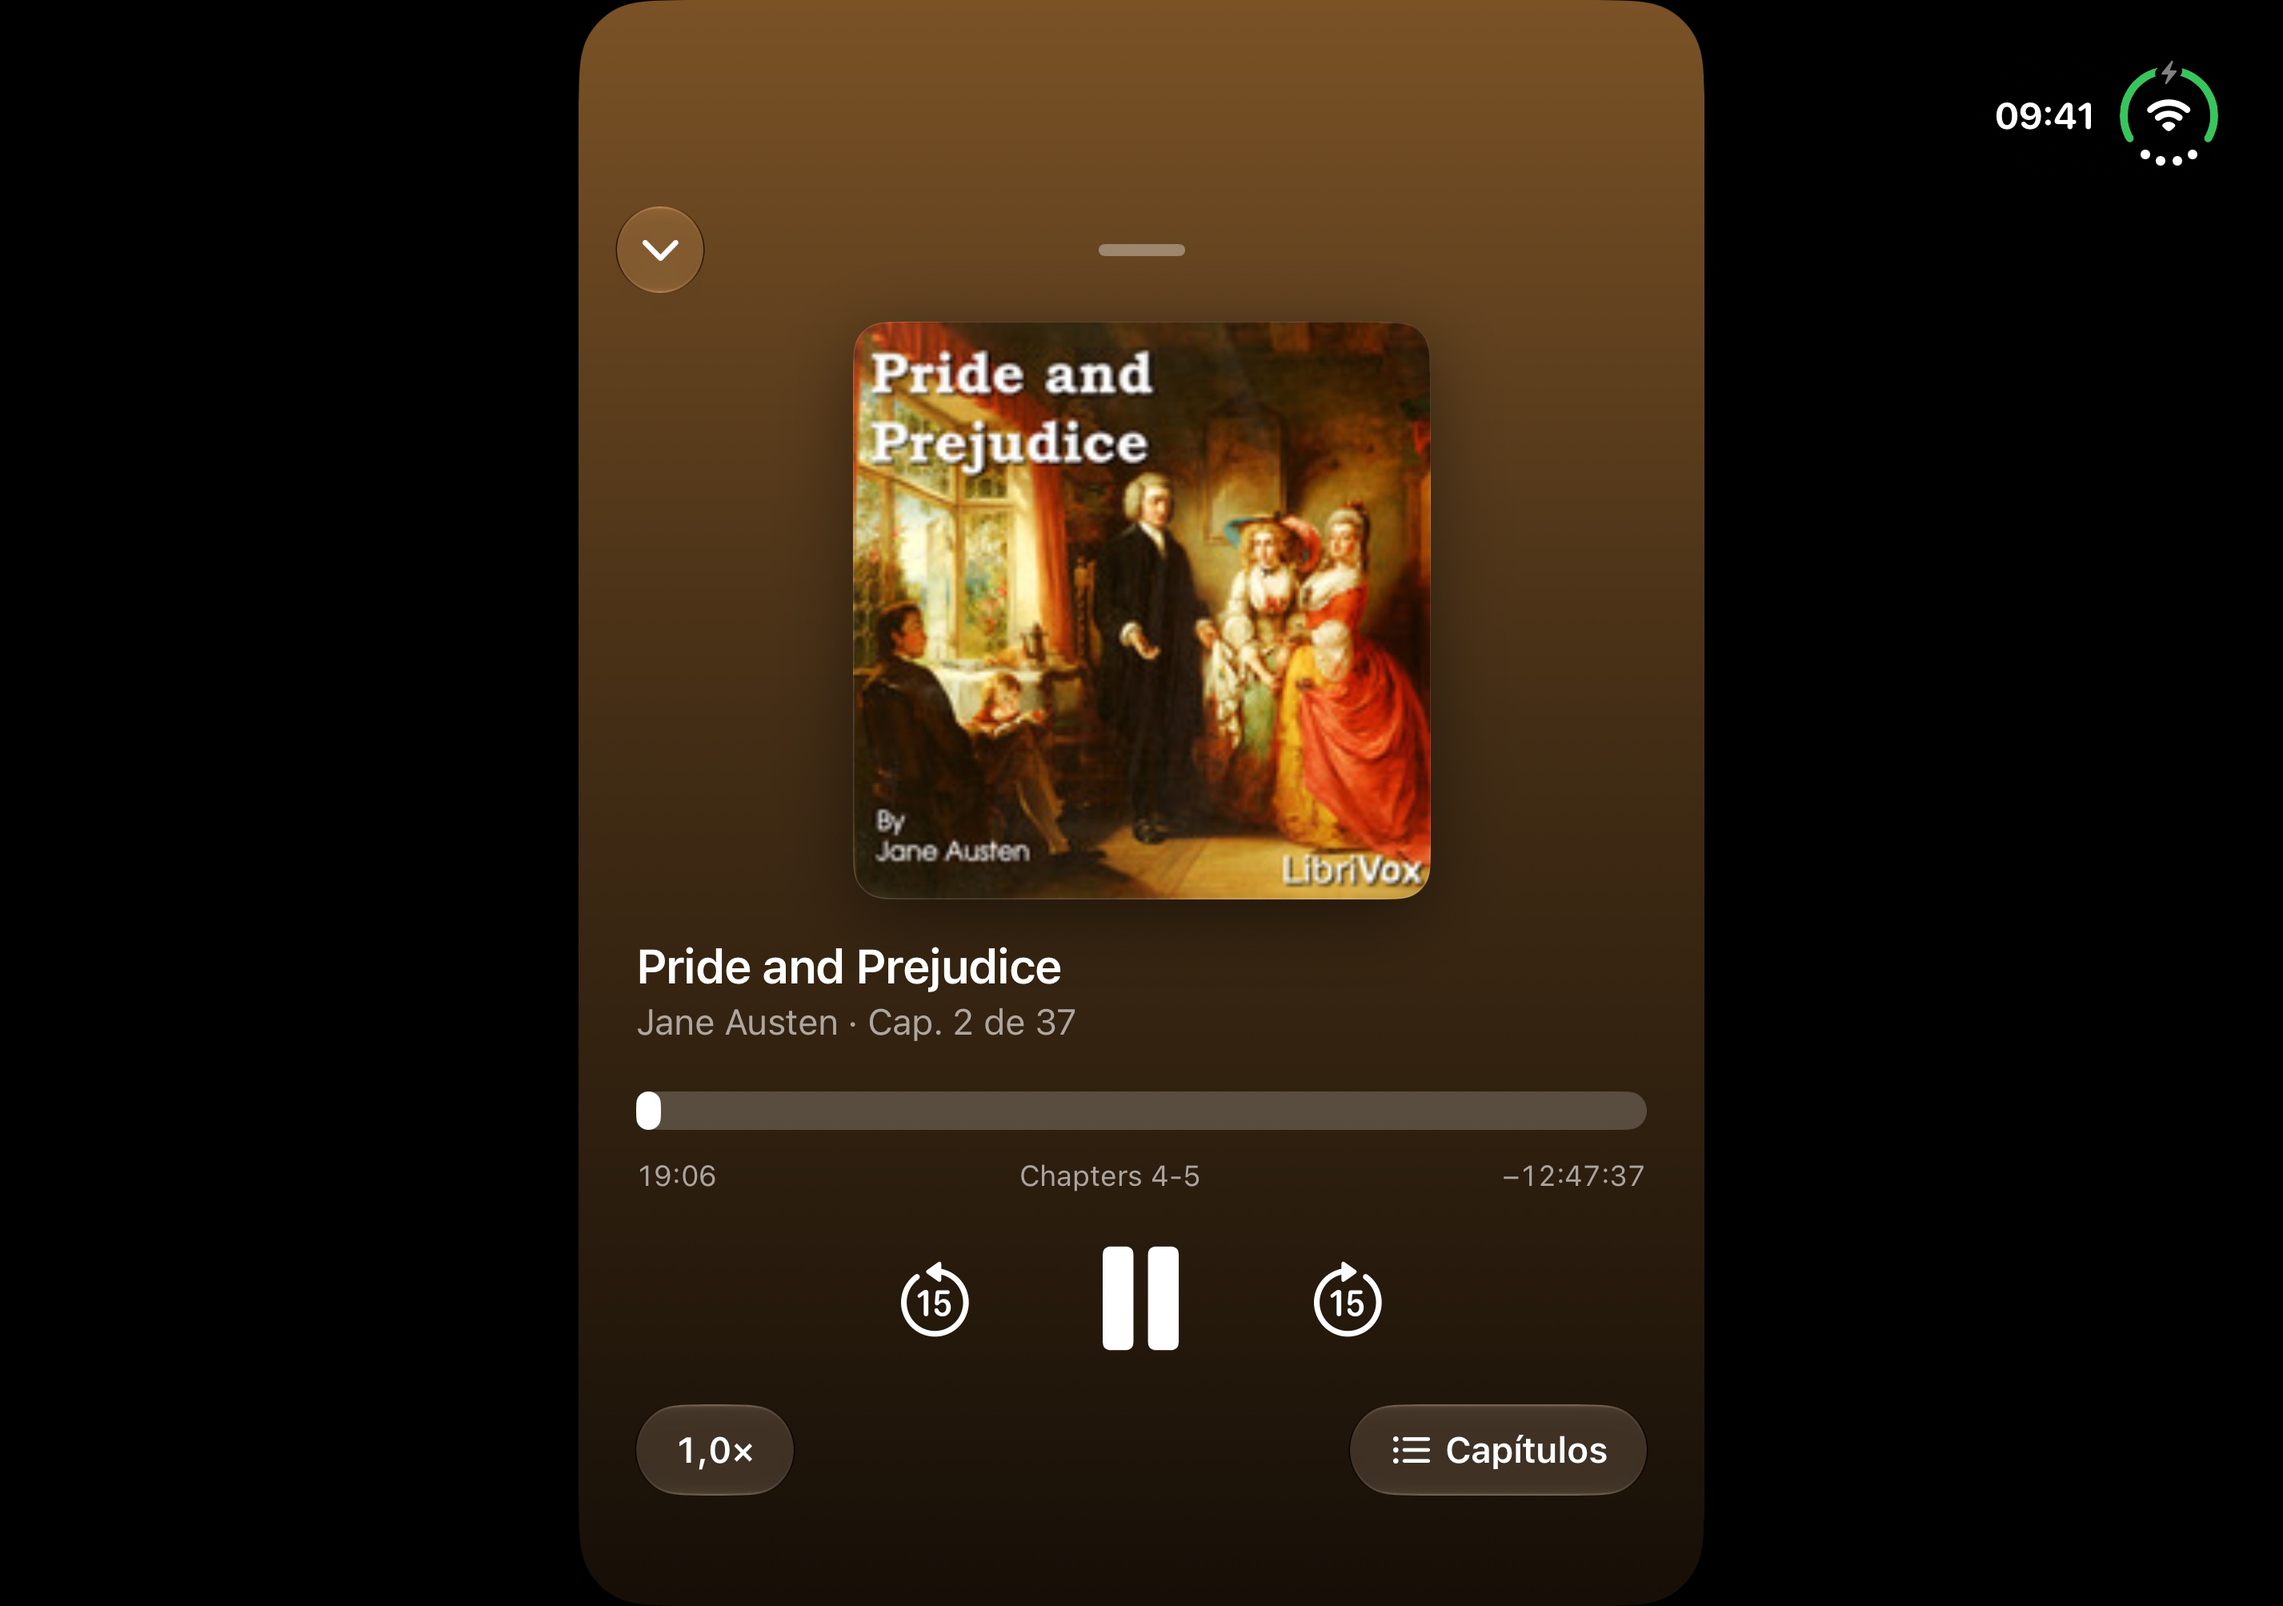
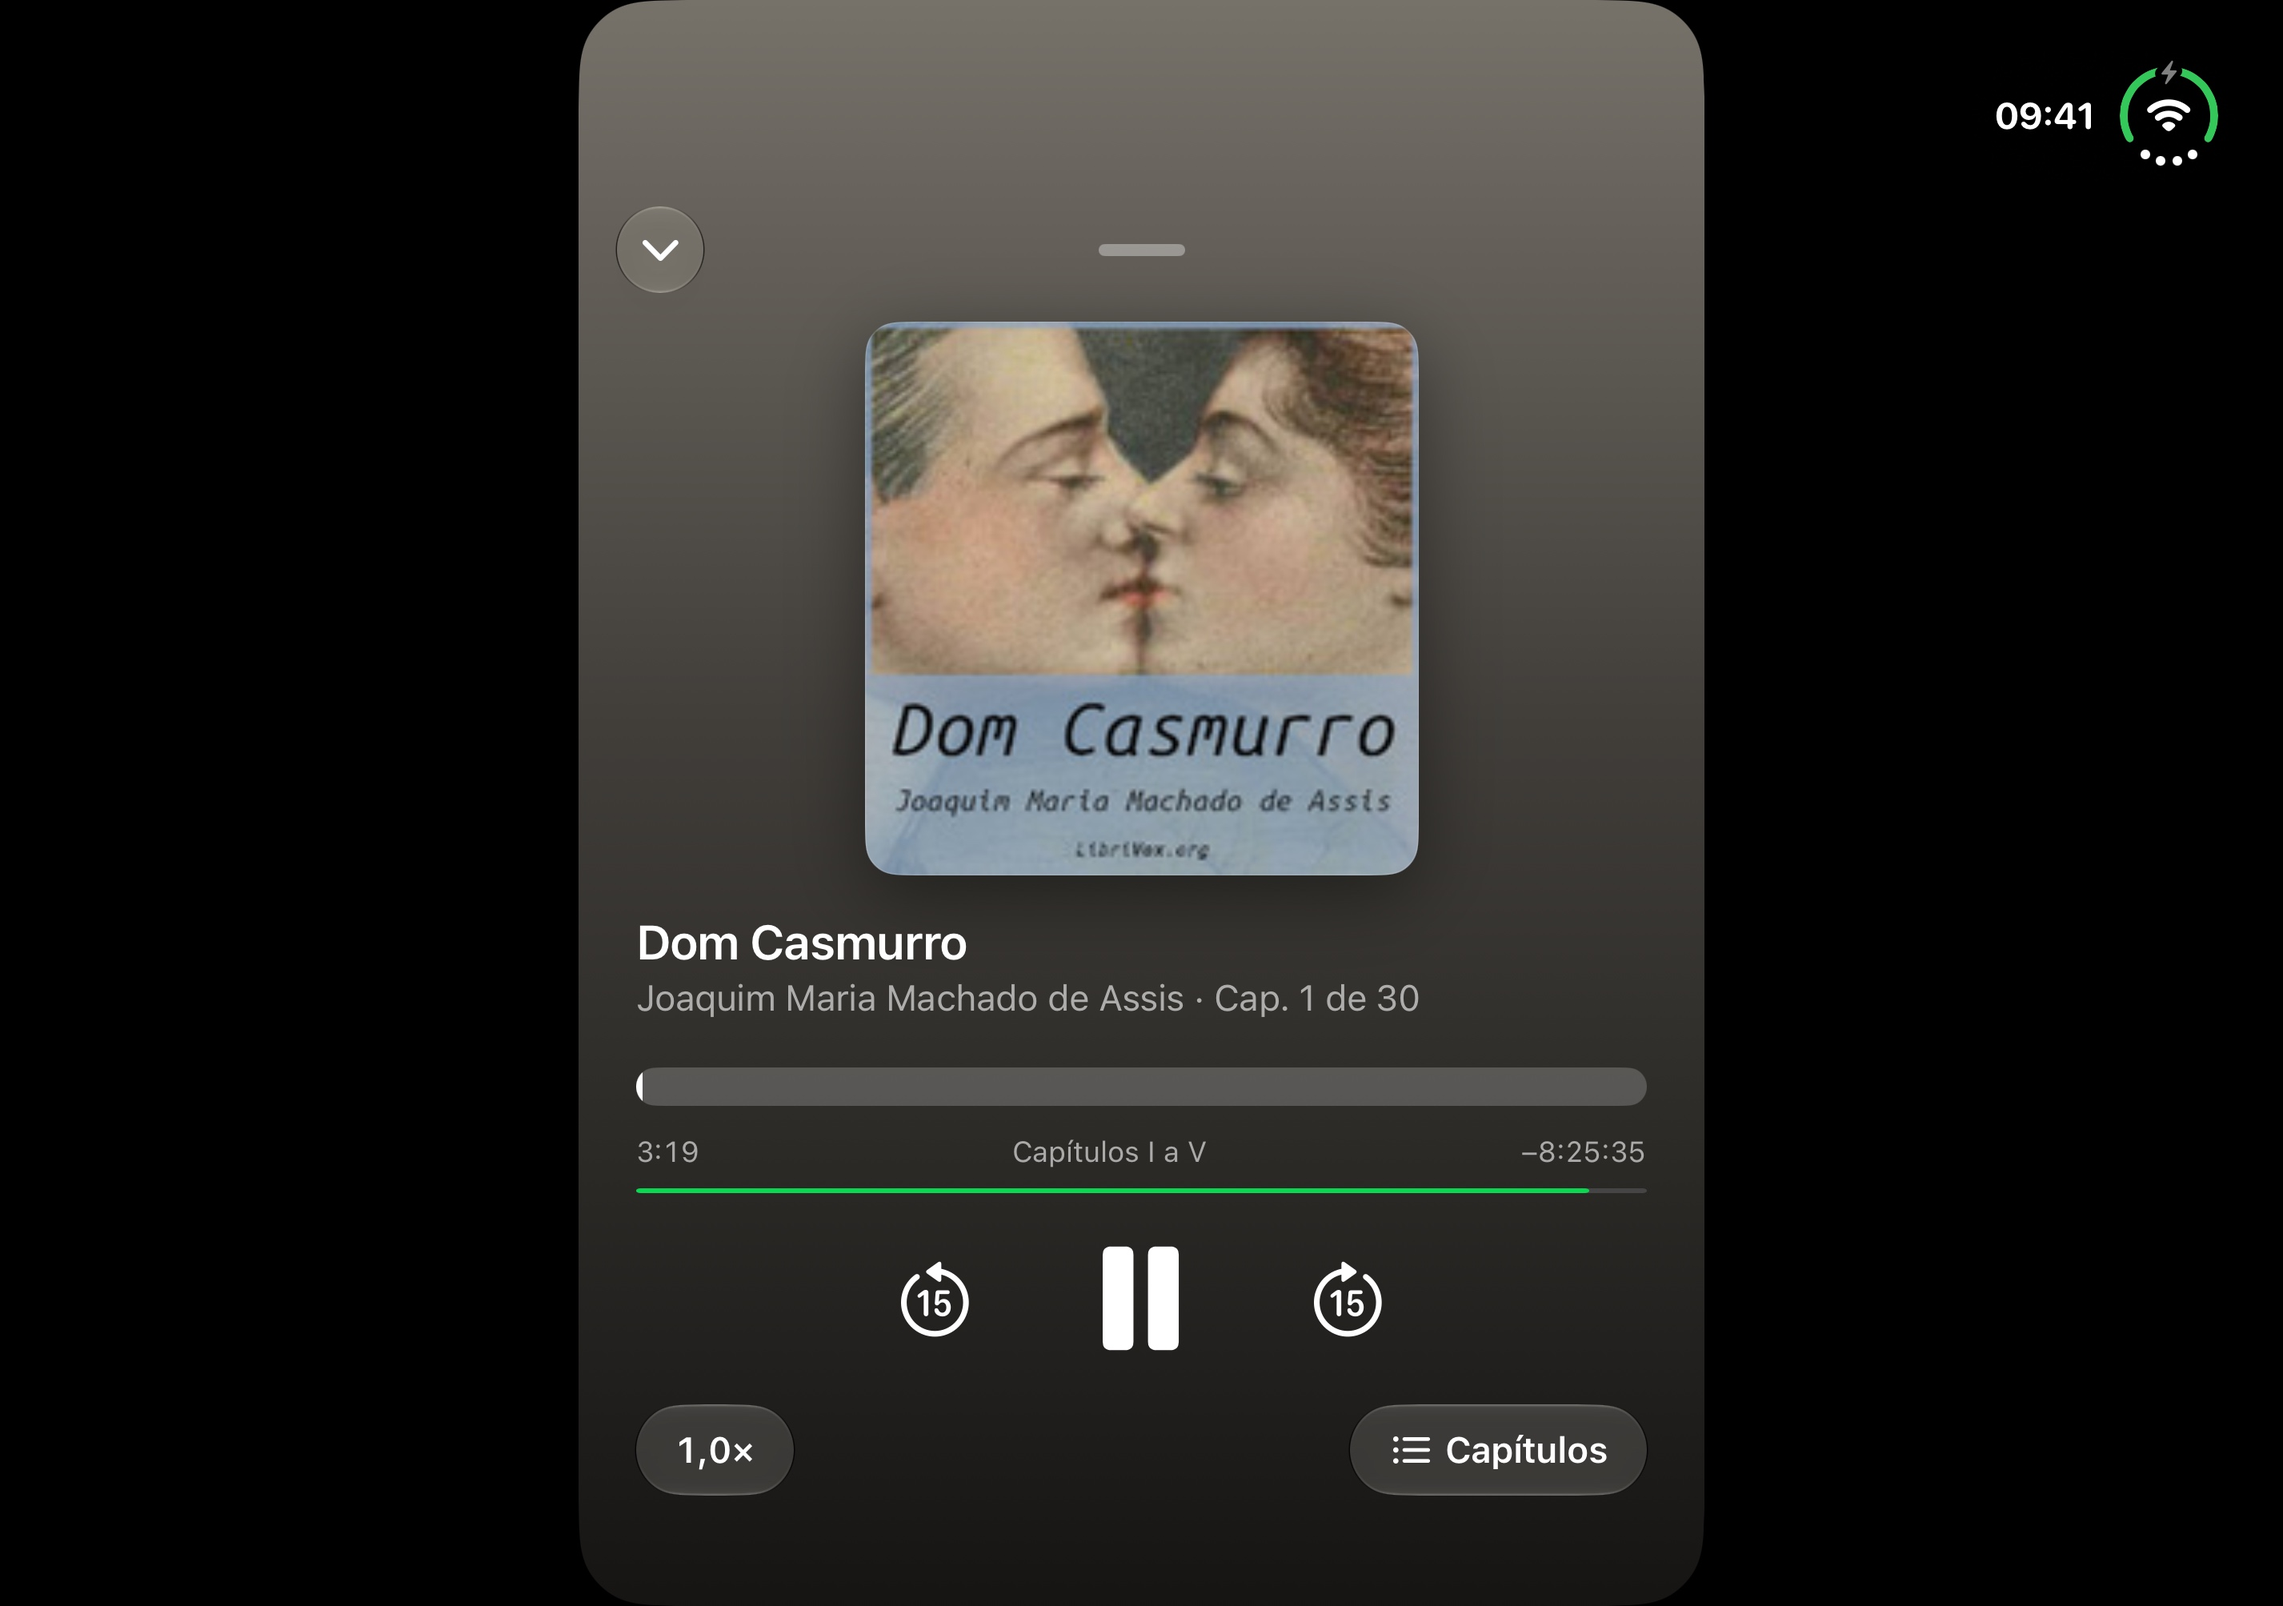
docs(store): pt-BR screenshots with Brazilian books (6.3", 6.9", iPhone Duo outer and inner)

diff --git a/StoreConfig/README.md b/StoreConfig/README.md
@@ -81,10 +81,18 @@ The images are in `screenshots/<language>/`, named `<slot>_<n>-<screen>.jpg`:
 
 - `iphone-6.3`: upload to "iPhone with Dynamic Island (medium display)"
 - `iphone-6.9`: upload to "iPhone with Dynamic Island (large display)"
-- `duo-outer`: upload to the iPhone Duo outer display. `en-US` only for now: the pt-BR set and a
-  retake after the clipped-grid fix are tracked in #251.
+- `duo-outer`: upload to the iPhone Duo outer display. A retake after the clipped-grid fix is
+  tracked in #251.
 - `duo-inner`: upload to the iPhone Duo inner display
 
-The order is library (with Continue), player, chapter list, LibriVox search, then book detail. They
-were captured from the 1.0.1 release build with the demo library from the landing-page footage.
+The order is library (with Continue), player, chapter list, LibriVox search, then book detail.
+
+- **en-US:** captured from the 1.0.1 release build with the English classics from the landing-page footage (*Pride and Prejudice* playing, *Dracula*'s page).
+- **pt-BR:** captured from the 1.0.3 release build with a library of Brazilian books, the same as the landing page's Portuguese clips:
+  - Machado de Assis, José de Alencar, Lima Barreto, Euclides da Cunha, Aluísio Azevedo, Raul Pompéia;
+  - *Dom Casmurro* playing;
+  - a search for "Machado de Assis";
+  - *O Alienista*'s page.
+
+  The 6.3" set is native (iPhone 17); the 6.9" and Duo sets are from the same library copied to those simulators.
 The capture tooling isn't in the repo yet (#252).
